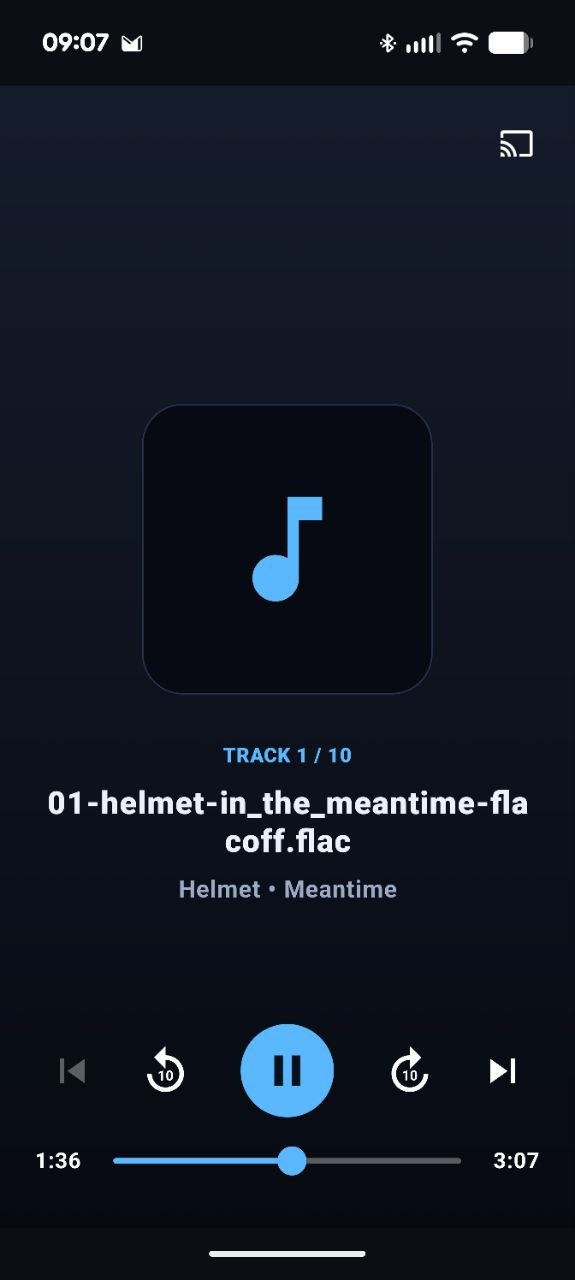
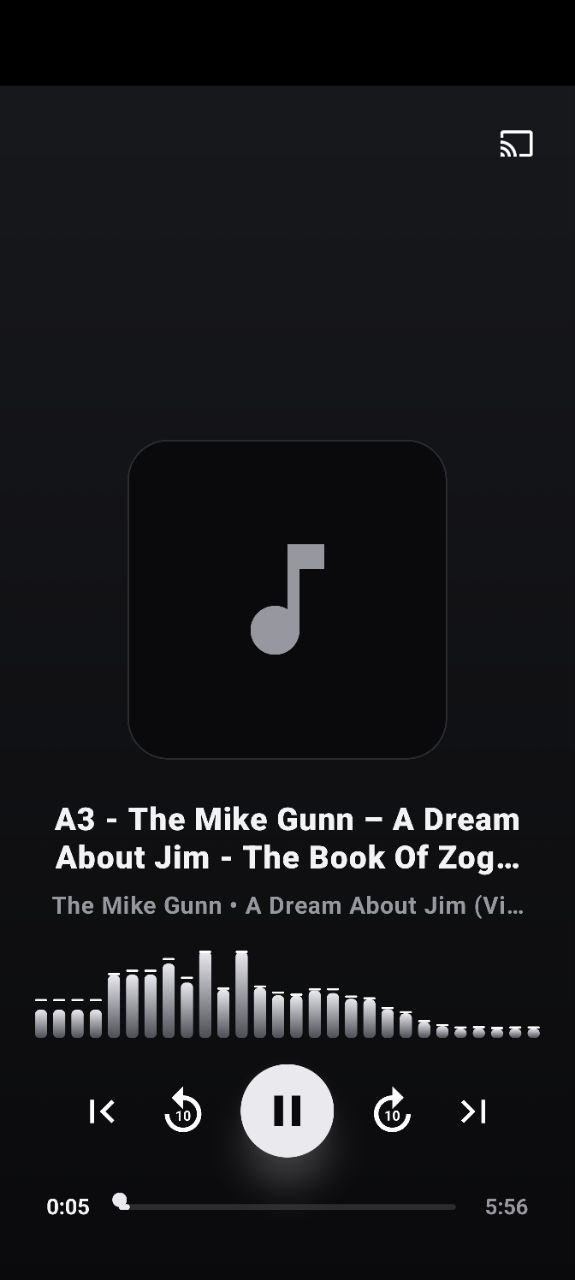
pCloudTV: document Android Auto in README; refresh screenshots
- Add an Android Auto entry under Controls and a feature bullet; note the
  car renders its own now-playing screen (in-app visualizer is phone/TV only).
- Replace screenshots/screenshot-1..7 with captures on the latest theme.

diff --git a/Android/PCloudTV/README.md b/Android/PCloudTV/README.md
@@ -55,6 +55,7 @@ and stream your <strong>video and audio</strong> straight from pCloud — played
 - **VLC playback** with wide codec support; auto-hiding controls (play/pause, +/-10s, scrub bar).
 - Auto-selects **English audio + subtitles** with a manual **Tracks** picker. A single video or audiobook **resumes where you left off**; playlist tracks always start from the beginning.
 - **Background audio** — music/audiobooks keep playing with the screen off or when you leave the app; video stops on leave.
+- **Android Auto** — appears as a media app in the car: browse your folders, **Playlists**, and **Audiobooks** on the head unit, play tracks and `.m3u` playlists with cover art, and control playback from the car's now-playing screen. Runs headlessly in a background service, so it keeps going with the phone locked.
 - **Playlists** — play `.m3u`/`.m3u8` as a queue (auto-advance, skip, HLS), build one by tapping tracks across folders (saved to `/Music/playlists`, resolved by pCloud file id), or bulk-generate one **per folder, saved beside its own tracks**.
 - **Shared links** — open a pCloud public link (file or folder) with no account.
 - **In-app document viewer** — open `.nfo` / `.htm` files (embedded art and all) right in the app, including from shared links.
@@ -72,6 +73,8 @@ See the **[changelog](https://github.com/MikereDD/It-Works-On-My-Machine/blob/ma
 **Player (TV remote):** **Left / Right** move the highlight across the control buttons - **OK** press the highlighted button (play/pause, -/+10s, start, end) - **Up / Menu** audio & subtitle tracks - **Down** drop onto the scrub bar (then **Left / Right** to scrub, **Up** to return) - **Back** exit.
 
 **Player (touch):** tap to show/hide controls, tap the buttons, drag the seek bar, tap **Tracks** (top-right) for audio/subtitles.
+
+**Player (Android Auto):** open **pCloud TV** from the car's app launcher to browse your folders, **Playlists**, and **Audiobooks** on the head unit, then tap a track or playlist to play. The car's now-playing screen shows the cover art and routes **play/pause**, **skip next / previous**, and **seek**; playback runs in a background service, so it continues with the phone locked or the app closed. *(Android Auto draws its own now-playing screen, so the in-app visualizer and custom layout are phone/TV only.)*
 
 ---
 
